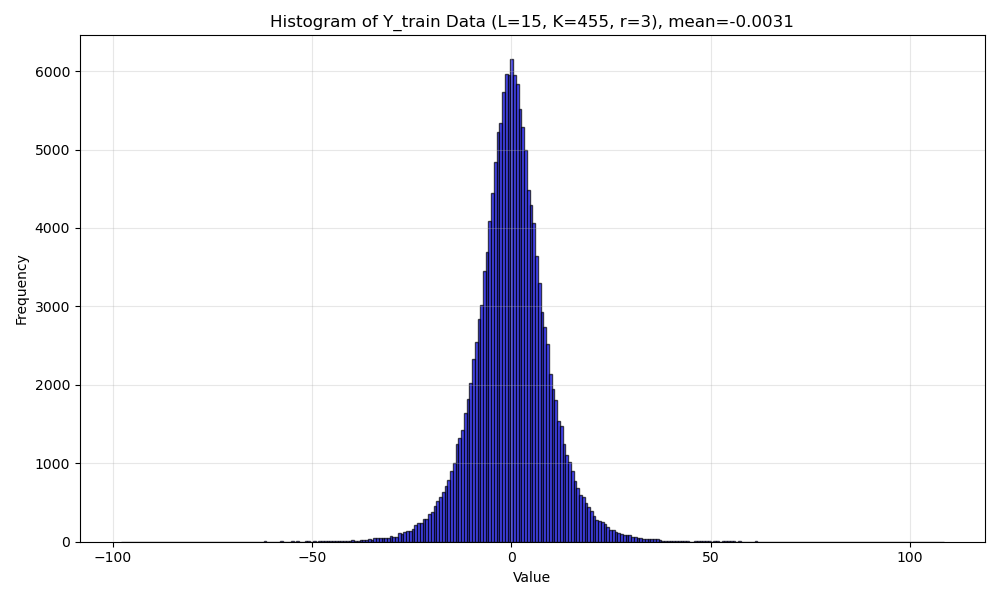
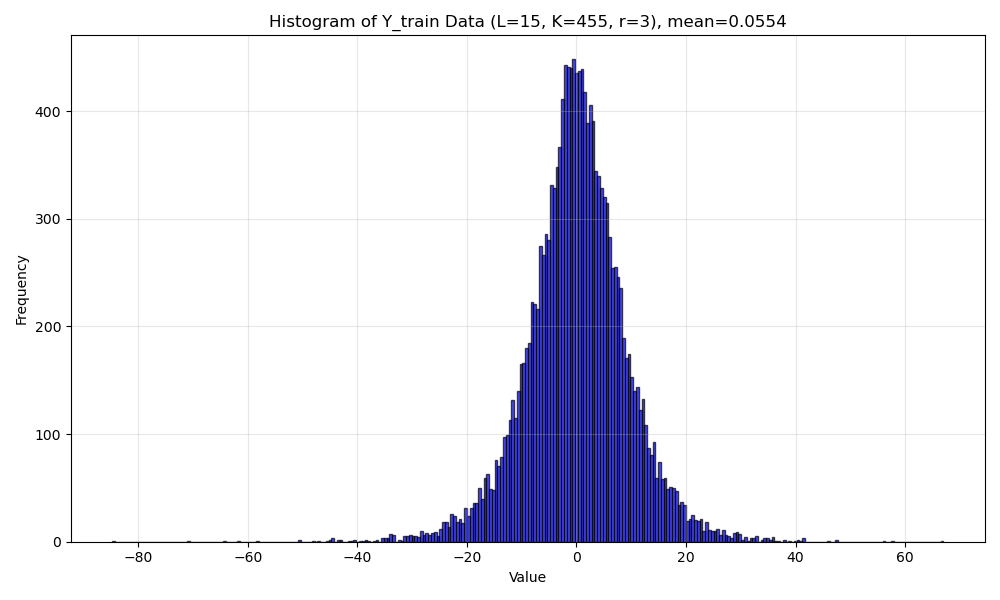
plt

diff --git a/hs_densenet/hs_densenet_test.py b/hs_densenet/hs_densenet_test.py
@@ -1,0 +1,93 @@
+import torch
+import torch.nn as nn
+import sys
+from itertools import combinations
+import pickle
+
+import numpy as np
+import re
+import glob
+from hs_densenet_structure import *
+
+
+L = 15  # Number of spins
+r = 3   # Number of spins in each interaction term
+B = list(combinations(range(L), r))
+K=len(B)
+num_layers=4
+epoch_num=11999
+growth_rate_dirs_vec=[]
+growth_rate_vals_vec=[]
+
+dirs_root=f"./out_model_hs_densenet_L{L}_K{K}_r{r}_layer{num_layers}/"
+
+for dir in glob.glob(dirs_root+f"/growth_rate*"):
+    match_grow_rate=re.search(r"growth_rate(\d+)", dir)
+    if match_grow_rate:
+        growth_rate_dirs_vec.append(dir)
+        growth_rate_vals_vec.append(int(match_grow_rate.group(1)))
+
+
+def count_parameters(model):
+    return sum(p.numel() for p in model.parameters() if p.requires_grad)
+
+
+
+sorted_inds=np.argsort(growth_rate_vals_vec)
+sorted_growth_rate_vec=[growth_rate_vals_vec[ind] for ind in sorted_inds]
+sorted_growth_rate_dirs_vec=[growth_rate_dirs_vec[ind] for ind in sorted_inds]
+
+
+# Define device
+device = torch.device("cuda" if torch.cuda.is_available() else "cpu")
+print("device="+str(device))
+data_inDir=f"./data_hs_L{L}_K_{K}_r{r}/"
+N_samples=int(20000)
+fileNameTest=data_inDir+f"/hs{N_samples}.test.pkl"
+with open(fileNameTest, 'rb') as f:
+    X_test, Y_test = pickle.load(f)
+
+
+# Convert to PyTorch tensors
+X_test = torch.tensor(X_test, dtype=torch.float32).to(device)
+Y_test = torch.tensor(Y_test, dtype=torch.float32).view(-1, 1).to(device)
+
+print(f"Y_test.shape={Y_test.shape}")
+
+def load_one_model_performance(growth_rate,epoch_num,dir):
+    model_file_name = dir + f"/hs_densenet_trained_epoch{epoch_num}.pth"
+    # Create the model
+    model = DenseNet_no_bn(
+        num_spins=L, num_layers=num_layers, growth_rate=growth_rate
+    )
+    criterion = nn.MSELoss()
+    # Load the checkpoint
+    checkpoint = torch.load(model_file_name)
+    # Extract the model state dictionary and load it
+    model.load_state_dict(checkpoint['model_state_dict'])
+    # Move the model to the appropriate device
+    model = model.to(device)
+    # Set the model to evaluation mode
+    model.eval()
+    print("Model successfully loaded and ready for evaluation.")
+    errors = []
+    with torch.no_grad():
+        # Forward pass to get predictions
+        predictions = model(X_test)
+        # Compute loss or other evaluation metrics
+        test_loss = criterion(predictions, Y_test).item()
+        batch_errors = (predictions - Y_test).cpu().numpy()  # Convert to NumPy for easier handling
+        errors.extend(batch_errors.flatten())  # Flatten and add to the list
+    std_loss = np.sqrt(test_loss)
+    num_params = count_parameters(model)
+    print(f"Test Loss: {test_loss:.4f}, std loss: {std_loss:.4f}, num_params: {num_params}")
+    outTxtFile = dir + f"/test_epoch{epoch_num}.txt"
+    out_content = f"MSE_loss={format_using_decimal(test_loss)}, std_loss={format_using_decimal(std_loss)}\n"
+    with open(outTxtFile, "w+") as fptr:
+        fptr.write(out_content)
+    print(f"processed {dir}")
+# print(sorted_num_neurons_dirs_vec)
+for ind in range(0,len(sorted_growth_rate_dirs_vec)):
+    growth_rate=sorted_growth_rate_vec[ind]
+    dir=sorted_growth_rate_dirs_vec[ind]
+    load_one_model_performance(growth_rate,epoch_num, dir)

diff --git a/hs_densenet/extract_test.py b/hs_densenet/extract_test.py
@@ -1,0 +1,58 @@
+import numpy as np
+import re
+import matplotlib.pyplot as plt
+from pathlib import Path
+import pandas as pd
+from itertools import combinations
+import glob
+
+#this script combines test results for the same num_layers, all num_neurons
+L = 15  # Number of spins
+r = 3   # Number of spins in each interaction term
+B = list(combinations(range(L), r))
+K=len(B)
+num_layers=3
+epoch_num=5999
+
+growth_rate_dirs_vec=[]
+growth_rate_vals_vec=[]
+dirs_root=f"./out_model_hs_densenet_L{L}_K{K}_r{r}_layer{num_layers}/"
+
+for dir in glob.glob(dirs_root+f"/growth_rate*"):
+    match_grow_rate=re.search(r"growth_rate(\d+)", dir)
+    if match_grow_rate:
+        growth_rate_dirs_vec.append(dir)
+        growth_rate_vals_vec.append(int(match_grow_rate.group(1)))
+
+
+sorted_inds=np.argsort(growth_rate_vals_vec)
+sorted_growth_rate_vec=[growth_rate_vals_vec[ind] for ind in sorted_inds]
+sorted_growth_rate_dirs_vec=[growth_rate_dirs_vec[ind] for ind in sorted_inds]
+pattern_std=r'std_loss\s*=\s*([+]?(?:\d*\.\d+|\d+)(?:[eE][-+]?\d+)?)'
+
+def load_one_test_set_result(dir):
+    test_result_file=dir+f"/test_epoch{epoch_num}.txt"
+    with open(test_result_file,"r") as fptr:
+        line=fptr.readline()
+    match_std_loss = re.search(pattern_std, line)
+    if match_std_loss:
+        return float(match_std_loss.group(1))
+    else:
+        print(f"{test_result_file}, format error")
+        exit(12)
+
+outPath="./compare_layer_neuron_num/"
+Path(outPath).mkdir(parents=True, exist_ok=True)
+std_loss_vec=[]
+for ind in range(0,len(sorted_growth_rate_vec)):
+    growth_rate=sorted_growth_rate_vec[ind]
+    dir=sorted_growth_rate_dirs_vec[ind]
+    std_loss=load_one_test_set_result(dir)
+    std_loss_vec.append(std_loss)
+
+
+out_df=pd.DataFrame({
+"growth_rate":sorted_growth_rate_vec,
+    "std_loss":std_loss_vec
+})
+out_df.to_csv(outPath+f"layer{num_layers}_epoch{epoch_num}_std_loss.csv",index=False)

diff --git a/hs_densenet/hs_densenet_train.py b/hs_densenet/hs_densenet_train.py
@@ -24,17 +24,17 @@ num_layers = int(sys.argv[3])#>=1
 growth_rate=int(sys.argv[4])
 B = list(combinations(range(L), r))
 K=len(B)
-
+N_samples=int(20000)
 data_inDir=f"./data_hs_L{L}_K_{K}_r{r}/"
 
-fileNameTrain=data_inDir+"/hs.train.pkl"
+fileNameTrain=data_inDir+f"/hs{N_samples}.train.pkl"
 batch_size = 1000
 learning_rate = 0.001
 learning_rate_final=1e-5
 
-epoch_multiple=100
+epoch_multiple=1000
 weight_decay = 1e-4  # L2 regularization strength
-
+save_interval=1000
 with open(fileNameTrain,"rb") as fptr:
     X_train, Y_train = pickle.load(fptr)
 
@@ -107,6 +107,23 @@ for epoch in range(num_epochs):
     # Optionally print the current learning rate
     current_lr = scheduler.get_last_lr()[0]
     print(f"Learning Rate after Epoch {epoch + 1}: {current_lr:.8e}")
+    if (epoch + 1) % save_interval == 0:
+        save_path = out_model_Dir + f"/hs_densenet_trained_epoch{epoch}.pth"
+        checkpoint = {
+            'epoch': epoch + 1,
+            'model_state_dict': model.state_dict(),
+            'optimizer_state_dict': optimizer.state_dict(),
+            'scheduler_state_dict': scheduler.state_dict(),
+            'loss': average_loss,
+        }
+        torch.save(checkpoint, save_path)
+        print(f"Checkpoint saved at Epoch {epoch + 1} to {save_path}")
+        # Save the current loss logs at checkpoint intervals
+        log_path = out_model_Dir + f"/training_log_epoch{epoch}.txt"
+        with open(log_path, "w") as f:
+            f.writelines(loss_file_content)
+        print(f"Loss log saved at Epoch {epoch + 1} to {log_path}")
+
 
 # Save the loss log
 with open(out_model_Dir + f"/growth_rate{growth_rate}_hs_densenet_training_log.txt", "w+") as fptr:

diff --git a/hs_densenet/gen_data_hs.py b/hs_densenet/gen_data_hs.py
@@ -26,7 +26,7 @@ r = 3 # Number of spins in each interaction term
 seed=17
 np.random.seed(seed)
 
-N_samples=int(200000)
+N_samples=int(20000)
 B = list(combinations(range(L), r))
 print(f"len(B)={len(B)}")
 K=len(B)
@@ -88,11 +88,11 @@ X_train, Y_train, X_test, Y_test=generate_data(spin_configurations_samples,B,J_v
 outDir=f"./data_hs_L{L}_K_{K}_r{r}/"
 Path(outDir).mkdir(exist_ok=True,parents=True)
 #save training data
-fileNameTrain=outDir+"/hs.train.pkl"
+fileNameTrain=outDir+f"/hs{N_samples}.train.pkl"
 with open(fileNameTrain,"wb") as fptr:
     pickle.dump((X_train,Y_train),fptr)
 
-fileNameTest=outDir+"/hs.test.pkl"
+fileNameTest=outDir+f"/hs{N_samples}.test.pkl"
 with open(fileNameTest, "wb") as f:
     pickle.dump((X_test, Y_test), f)
 

diff --git a/hs_densenet/stats.py b/hs_densenet/stats.py
@@ -11,10 +11,10 @@ r = 3 # Number of spins in each interaction term
 B = list(combinations(range(L), r))
 print(f"len(B)={len(B)}")
 K=len(B)
-
+N_samples=int(20000)
 inDir=f"./data_hs_L{L}_K_{K}_r{r}/"
 #save training data
-fileNameTrain=inDir+"/hs.train.pkl"
+fileNameTrain=inDir+f"/hs{N_samples}.train.pkl"
 with open(fileNameTrain,"rb") as fptr:
     X_train, Y_train = pickle.load(fptr)
 Y_train_mean=np.mean(Y_train)

diff --git a/hs_densenet/README.md b/hs_densenet/README.md
@@ -8,9 +8,9 @@ use the neural network structure in hs_densenet_structure.py
 1. python hs_densenet_train.py L r  num_layers growth_rate
 2. change num_layers in plt_log.py, then
     python plt_log.py
-3. change num_layers in growth_rate_densenet_no_bn_test.py, then
-    python _test.py
-4. change num_layers in extract_test.py, then
+3. change num_layers, epoch_num, in hs_densenet_test.py, then
+    python hs_densenet_test.py
+4. change num_layers, epoch_num,  in extract_test.py, then
    python extract_test.py
-5. plot loss:
+5. plot loss: change epoch_num in plt_std_loss.py, 
     python plt_std_loss.py
